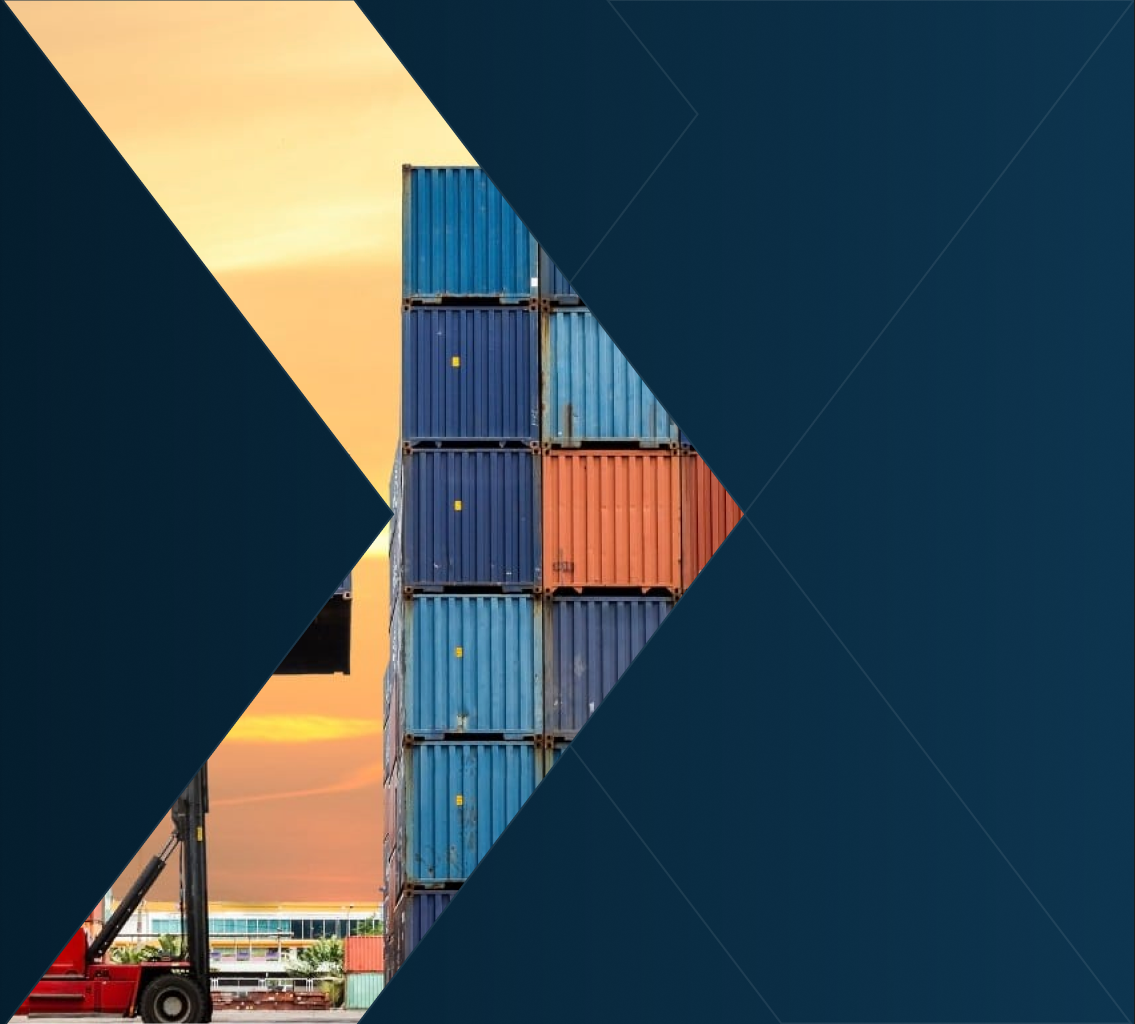
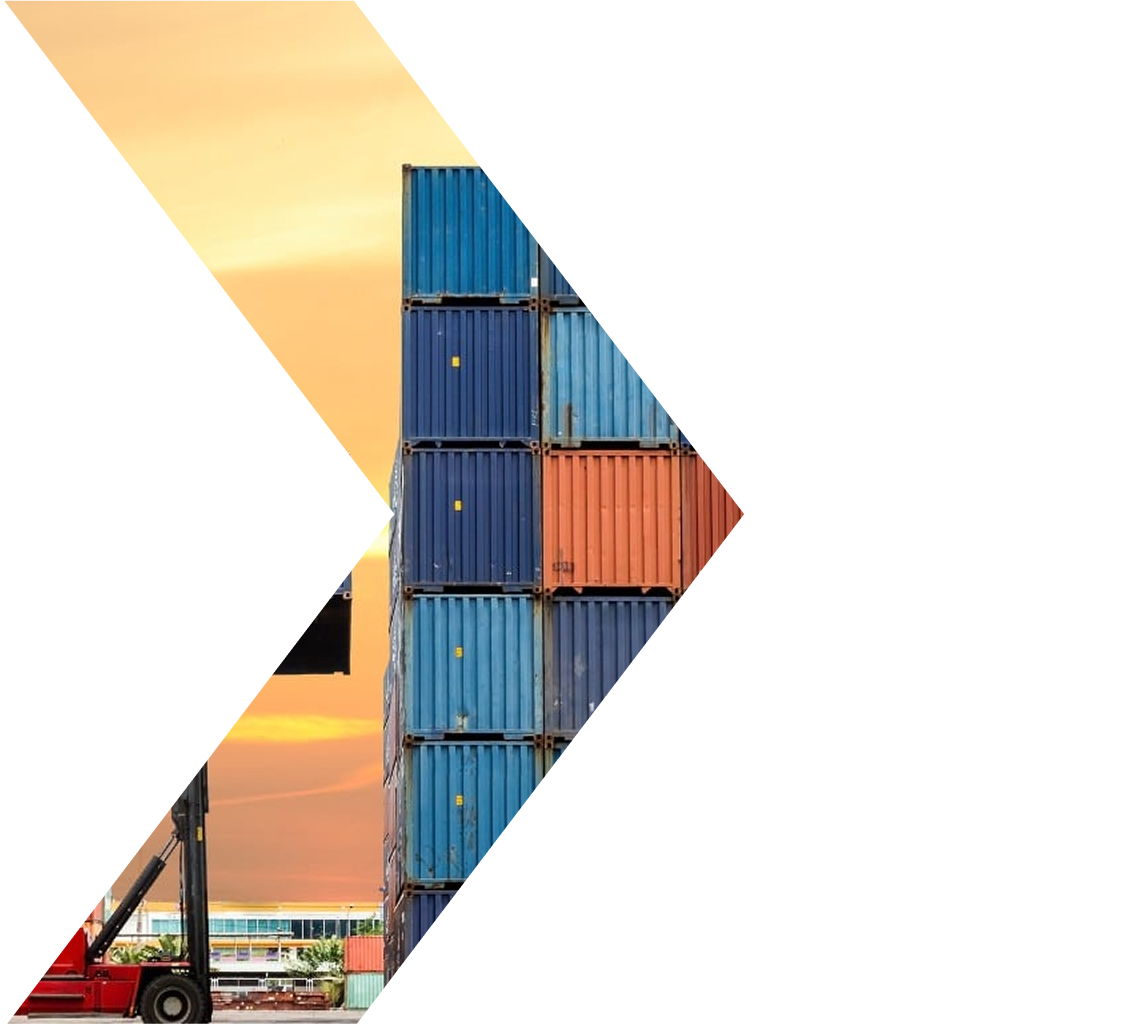
Project Update

diff --git a/components/BroadwayHeroV3.jsx b/components/BroadwayHeroV3.jsx
@@ -54,12 +54,12 @@ export default function BroadwayHeroV3() {
       className="relative flex h-screen w-full items-center overflow-hidden px-6 py-24 sm:px-16 lg:px-28"
       style={{ background: "linear-gradient(90deg, #0E354F 0%, #000E17 100%)" }}
     >
-      {/* Background full-bleed temporário (a imagem ainda inclui gradiente/linhas do Figma) */}
+      {/* Foto (recorte em seta), à direita, encostando topo/rodapé, escala preservada */}
       <img
         src="/images/hero-broadway.png"
         alt=""
         aria-hidden="true"
-        className="pointer-events-none absolute inset-0 h-full w-full object-cover"
+        className="pointer-events-none absolute right-0 top-0 h-full w-auto object-contain object-right"
       />
 
       <div className="relative z-10 flex w-full max-w-[524px] flex-col items-start gap-12 text-left">
@@ -80,7 +80,7 @@ export default function BroadwayHeroV3() {
             className="max-w-[524px] text-left"
             style={{
               fontFamily: "var(--font-produkt), serif",
-              fontSize: "20px",
+              fontSize: "16px",
               fontWeight: 400,
               lineHeight: "1.4",
               color: "rgba(255,255,255,0.72)",

diff --git a/public-static/index.html b/public-static/index.html
@@ -47,14 +47,14 @@
     }
   }
 
-  /* TEMPORÁRIO: imagem ainda inclui gradiente/linhas embutidos (full-bleed).
-     Trocar para object-fit: contain + right/top quando o asset isolado chegar. */
   .hero__bg {
     position: absolute;
-    inset: 0;
-    width: 100%;
+    right: 0;
+    top: 0;
     height: 100%;
-    object-fit: cover;
+    width: auto;
+    object-fit: contain;
+    object-position: right;
     pointer-events: none;
   }
 
